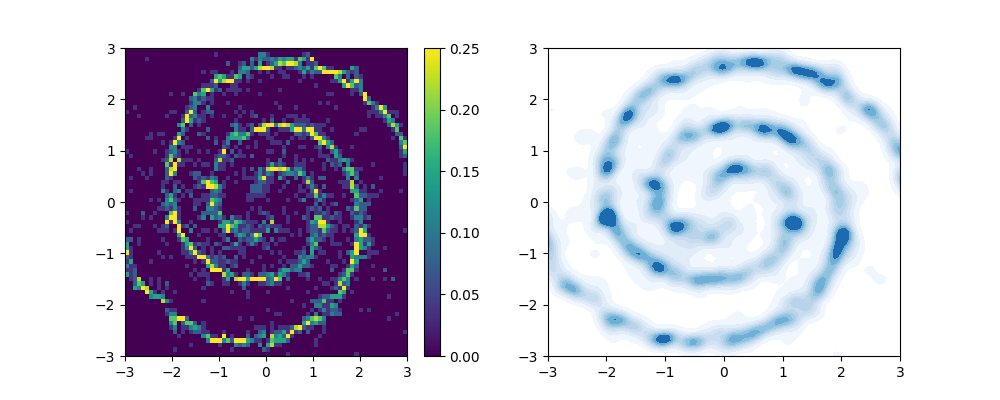
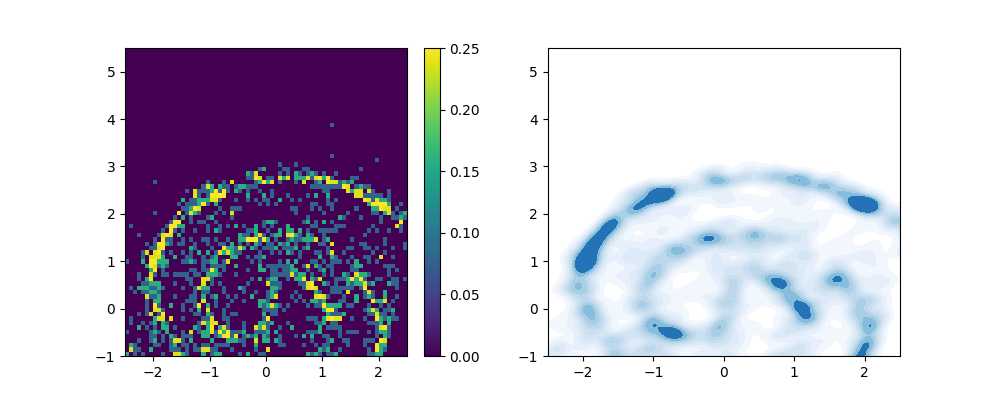
generic commit

diff --git a/scripts/transport/kvae_flow.py b/scripts/transport/kvae_flow.py
@@ -734,8 +734,8 @@ def run():
     ref_gen = sample_normal
     batch_size = 3000
     n_transports = 1
-    two_d_exp(ref_gen, sample_spirals, N=N, n_iter=3000, plt_range=[[-2.5, 2.5], [-1, 5.5]], process_funcs=[],
-              batch_size=batch_size, skip_idx=1, slice_vals=[], slice_range=[-3, 3], exp_name='exp3',
+    two_d_exp(ref_gen, sample_spirals, N=N, n_iter=3000, plt_range=[[-3, 3], [-3, 3]], process_funcs=[],
+              batch_size=batch_size, skip_idx=1, slice_vals=[], slice_range=[-3, 3], exp_name='exp_flow1',
               n_transports=n_transports, vmax=.25, reg_lambda=1e-6)
 
 

diff --git a/scripts/transport/c_transport.py b/scripts/transport/c_transport.py
@@ -660,8 +660,8 @@ def run():
     N = 3000
     batch_size = 3000
     n_transports = 1
-    two_d_exp(ref_gen, sample_spirals, N=N, n_iter=3000, plt_range=[[-2.5, 2.5], [-1, 5.5]], process_funcs=[],
-              skip_idx=1, slice_vals=[], slice_range=[-3, 3], exp_name='exp2', n_transports=n_transports, vmax=.25)
+    two_d_exp(ref_gen, sample_spirals, N=N, n_iter=3000, plt_range=[[-3, 3], [-3, 3]], process_funcs=[],
+              skip_idx=1, slice_vals=[], slice_range=[-3, 3], exp_name='exp_base', n_transports=n_transports, vmax=.25)
 
 
 if __name__=='__main__':

diff --git a/scripts/transport/kvae_flow2.py b/scripts/transport/kvae_flow2.py
@@ -735,7 +735,7 @@ def run():
     batch_size = 3000
     n_transports = 1
     two_d_exp(ref_gen, sample_spirals, N=N, n_iter=3000, plt_range=[[-2.5, 2.5], [-1, 5.5]], process_funcs=[],
-              batch_size=batch_size, skip_idx=1, slice_vals=[], slice_range=[-3, 3], exp_name='exp1',
+              batch_size=batch_size, skip_idx=1, slice_vals=[], slice_range=[-3, 3], exp_name='exp_flow2',
               n_transports=n_transports, vmax=.25, reg_lambda=1e-6)
 
 
